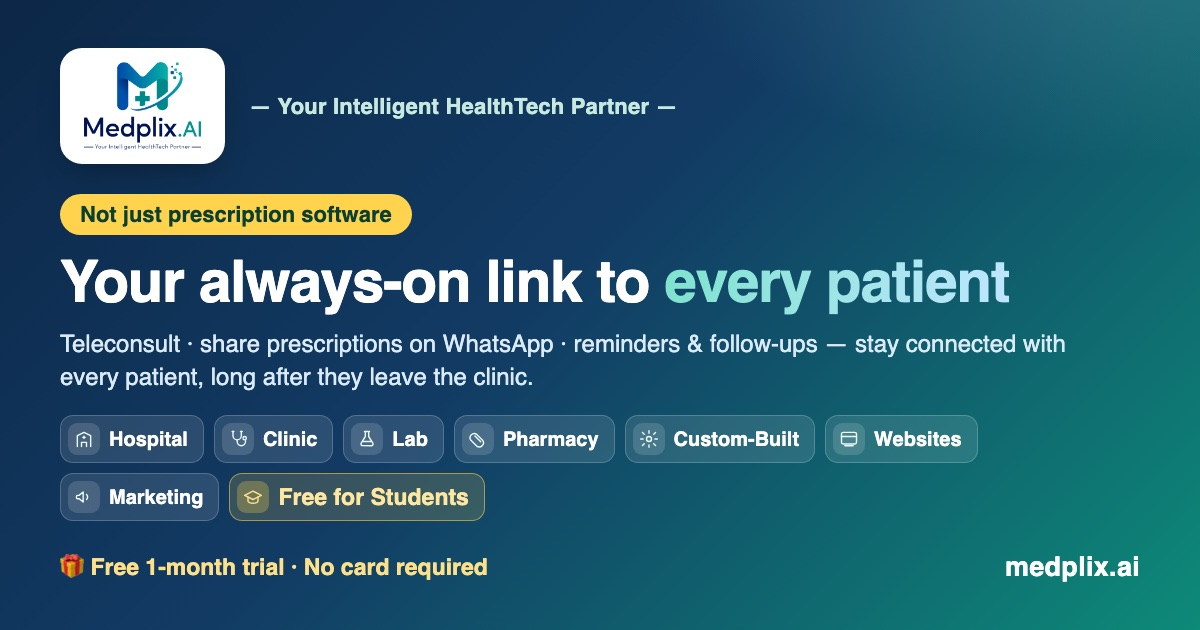
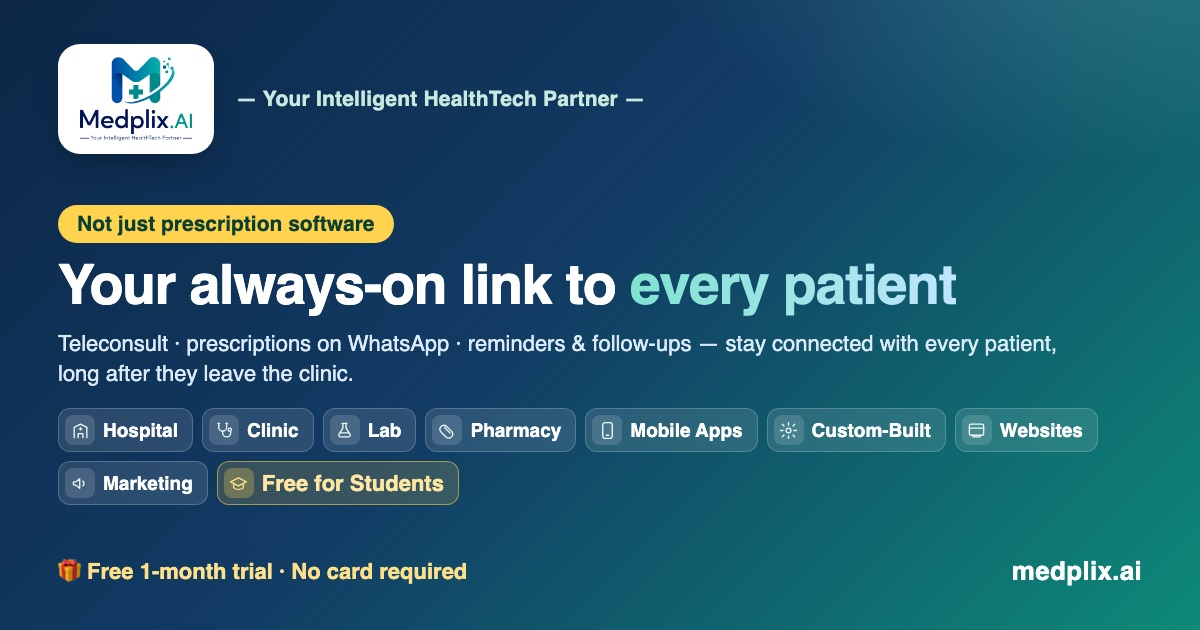
Share card: add Mobile Apps chip to the offering lineup
Add a "Mobile Apps" chip (phone icon) after Pharmacy so the card shows
the full range — Hospital, Clinic, Lab, Pharmacy, Mobile Apps,
Custom-Built, Websites, Marketing and Free for Students — keeping the
"not just prescription software / your always-on link to every patient"
message. og:image → ?v=8; OG/Twitter description names mobile apps too.

diff --git a/index.html b/index.html
@@ -20,9 +20,9 @@
   <meta property="og:type" content="website" />
   <meta property="og:site_name" content="Medplix.AI" />
   <meta property="og:title" content="Medplix.AI — AI Hospital, Clinic, Lab &amp; Pharmacy Software for India" />
-  <meta property="og:description" content="Not just prescription software — Medplix keeps you connected to every patient with teleconsult, prescriptions on WhatsApp, reminders &amp; follow-ups, for Hospitals, Clinics, Labs &amp; Pharmacies. Free 1-month trial." />
+  <meta property="og:description" content="Not just prescription software — Medplix keeps you connected to every patient with teleconsult, prescriptions on WhatsApp, reminders &amp; follow-ups, for Hospitals, Clinics, Labs, Pharmacies, mobile apps, custom builds, websites &amp; digital marketing. Free 1-month trial." />
   <meta property="og:url" content="https://www.medplix.ai/" />
-  <meta property="og:image" content="https://www.medplix.ai/assets/og-image.jpg?v=7" />
+  <meta property="og:image" content="https://www.medplix.ai/assets/og-image.jpg?v=8" />
   <meta property="og:image:width" content="1200" />
   <meta property="og:image:height" content="630" />
   <meta property="og:image:type" content="image/jpeg" />
@@ -30,7 +30,7 @@
   <meta name="twitter:card" content="summary_large_image" />
   <meta name="twitter:title" content="Medplix.AI — AI-powered healthcare management" />
   <meta name="twitter:description" content="Run your whole hospital, clinic, lab or pharmacy on one connected, AI-powered system. Book a free demo." />
-  <meta name="twitter:image" content="https://www.medplix.ai/assets/og-image.jpg?v=7" />
+  <meta name="twitter:image" content="https://www.medplix.ai/assets/og-image.jpg?v=8" />
 
   <!-- ===== ICONS / MANIFEST ===== -->
   <link rel="icon" type="image/png" sizes="32x32" href="assets/favicon-32.png?v=4" />

diff --git a/product-pharmacy.html b/product-pharmacy.html
@@ -9,7 +9,7 @@
   <meta name="theme-color" content="#0f2c4d" />
   <meta property="og:title" content="Medplix Pharmacy — Pharmacy Billing & Inventory Software" />
   <meta property="og:description" content="Fast billing, tight inventory and zero stock leakage — fully GST-ready. ₹499/month." />
-  <meta property="og:image" content="https://www.medplix.ai/assets/og-image.jpg?v=7" />
+  <meta property="og:image" content="https://www.medplix.ai/assets/og-image.jpg?v=8" />
   <link rel="icon" type="image/png" sizes="32x32" href="assets/favicon-32.png?v=4" />
   <link rel="icon" type="image/png" sizes="16x16" href="assets/favicon-16.png?v=4" />
   <link rel="apple-touch-icon" sizes="180x180" href="assets/apple-touch-icon.png?v=4" />

diff --git a/product-labs.html b/product-labs.html
@@ -9,7 +9,7 @@
   <meta name="theme-color" content="#0f2c4d" />
   <meta property="og:title" content="Medplix Labs — Complete Laboratory Software (LIS)" />
   <meta property="og:description" content="From sample collection to auto-delivered reports — a complete lab system. ₹499/month." />
-  <meta property="og:image" content="https://www.medplix.ai/assets/og-image.jpg?v=7" />
+  <meta property="og:image" content="https://www.medplix.ai/assets/og-image.jpg?v=8" />
   <link rel="icon" type="image/png" sizes="32x32" href="assets/favicon-32.png?v=4" />
   <link rel="icon" type="image/png" sizes="16x16" href="assets/favicon-16.png?v=4" />
   <link rel="apple-touch-icon" sizes="180x180" href="assets/apple-touch-icon.png?v=4" />

diff --git a/product-clinic.html b/product-clinic.html
@@ -9,7 +9,7 @@
   <meta name="theme-color" content="#0f2c4d" />
   <meta property="og:title" content="Medplix Clinic — Complete Clinic Management Software" />
   <meta property="og:description" content="Appointments to billing for fast, paperless OPD clinics & daycare. ₹499/month." />
-  <meta property="og:image" content="https://www.medplix.ai/assets/og-image.jpg?v=7" />
+  <meta property="og:image" content="https://www.medplix.ai/assets/og-image.jpg?v=8" />
   <link rel="icon" type="image/png" sizes="32x32" href="assets/favicon-32.png?v=4" />
   <link rel="icon" type="image/png" sizes="16x16" href="assets/favicon-16.png?v=4" />
   <link rel="apple-touch-icon" sizes="180x180" href="assets/apple-touch-icon.png?v=4" />

diff --git a/product-hms.html b/product-hms.html
@@ -9,7 +9,7 @@
   <meta name="theme-color" content="#0f2c4d" />
   <meta property="og:title" content="Medplix HMS — Complete Hospital Management Software" />
   <meta property="og:description" content="Run your whole hospital on one connected, AI-powered system. ₹1,250/month." />
-  <meta property="og:image" content="https://www.medplix.ai/assets/og-image.jpg?v=7" />
+  <meta property="og:image" content="https://www.medplix.ai/assets/og-image.jpg?v=8" />
   <link rel="icon" type="image/png" sizes="32x32" href="assets/favicon-32.png?v=4" />
   <link rel="icon" type="image/png" sizes="16x16" href="assets/favicon-16.png?v=4" />
   <link rel="apple-touch-icon" sizes="180x180" href="assets/apple-touch-icon.png?v=4" />
